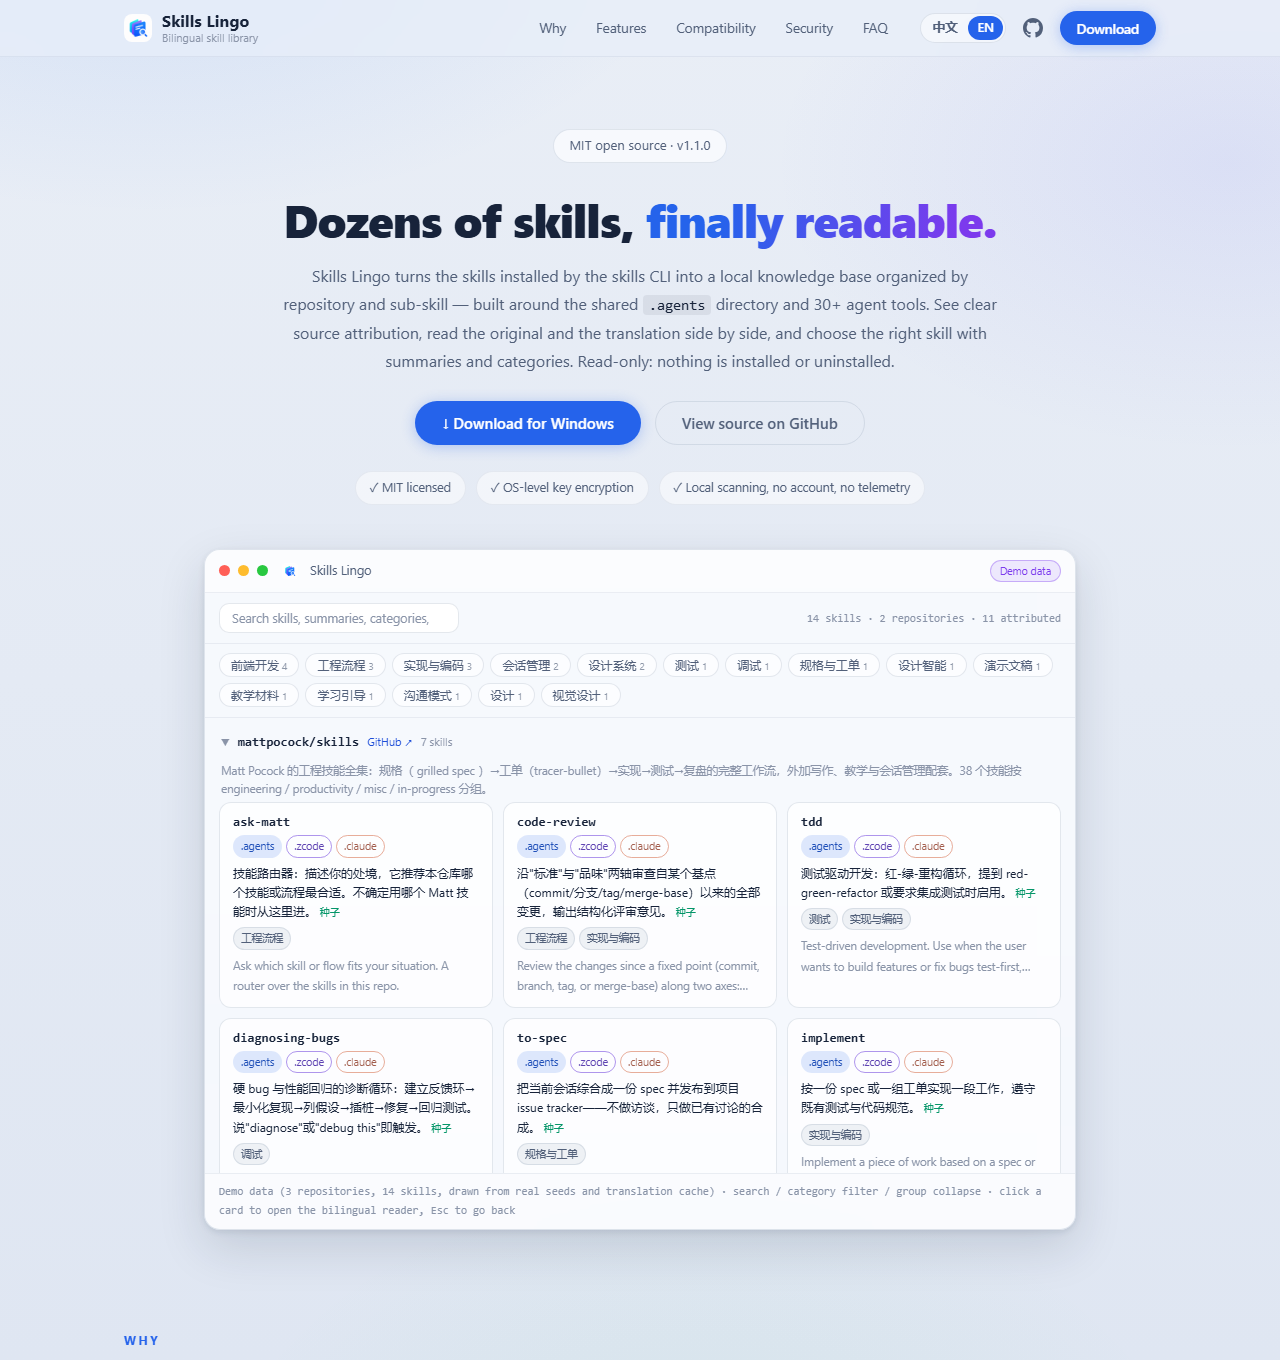
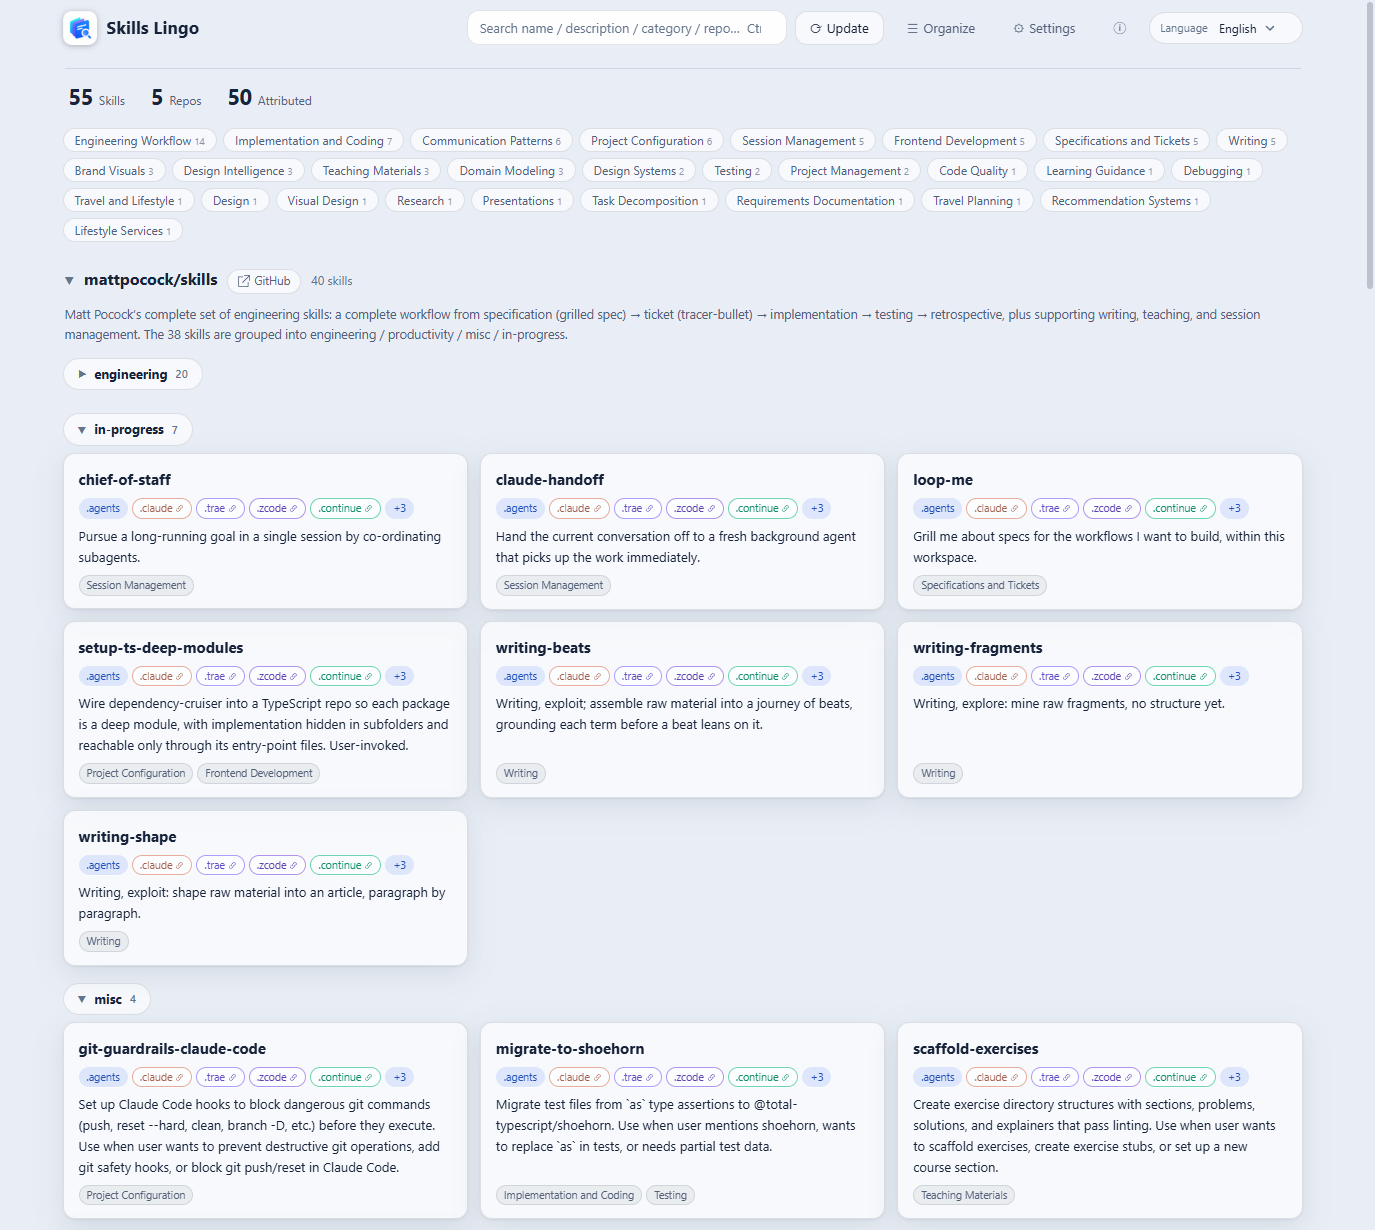
README: 移除 CI 徽章、统一英文品牌名,中文页换用中文截图

diff --git a/README.md b/README.md
@@ -2,12 +2,11 @@
 
 **English** | [中文](README.zh-CN.md)
 
-[![CI](https://github.com/TurkeyPro1025/skills-lingo/actions/workflows/ci.yml/badge.svg)](https://github.com/TurkeyPro1025/skills-lingo/actions/workflows/ci.yml)
 [![Release](https://img.shields.io/github/v/release/TurkeyPro1025/skills-lingo)](https://github.com/TurkeyPro1025/skills-lingo/releases/latest)
 [![License: MIT](https://img.shields.io/badge/License-MIT-blue.svg)](LICENSE)
 [![Platform](https://img.shields.io/badge/platform-Windows%20%7C%20Web-lightgrey)](#install)
 
-> Skills Lingo (Skills 译站) turns the dozens of skills installed by the skills CLI into a local knowledge base organized by **repository → sub-skill** — built around the shared `.agents` directory and 30+ agent tools — with bilingual (English ↔ Chinese) reading section by section. When you don't know which skill to call, summaries and category filters help you choose. It only reads skill directories — it never installs or uninstalls anything.
+> Skills Lingo turns the dozens of skills installed by the skills CLI into a local knowledge base organized by **repository → sub-skill** — built around the shared `.agents` directory and 30+ agent tools — with bilingual (English ↔ Chinese) reading section by section. When you don't know which skill to call, summaries and category filters help you choose. It only reads skill directories — it never installs or uninstalls anything.
 
 ![Skills Lingo interface (demo data)](docs/screenshot.png)
 

diff --git a/README.zh-CN.md b/README.zh-CN.md
@@ -2,14 +2,13 @@
 
 [English](README.md) | **中文**
 
-[![CI](https://github.com/TurkeyPro1025/skills-lingo/actions/workflows/ci.yml/badge.svg)](https://github.com/TurkeyPro1025/skills-lingo/actions/workflows/ci.yml)
 [![Release](https://img.shields.io/github/v/release/TurkeyPro1025/skills-lingo)](https://github.com/TurkeyPro1025/skills-lingo/releases/latest)
 [![License: MIT](https://img.shields.io/badge/License-MIT-blue.svg)](LICENSE)
 [![Platform](https://img.shields.io/badge/platform-Windows%20%7C%20Web-lightgrey)](#安装与使用)
 
 > 把 skills CLI 装进 `.agents` 等技能目录的几十个技能整理成“**仓库 → 子技能**”的本地知识库，以共享的 `.agents` 目录为主、支持 30+ Agent 工具，并把英文文档译成中文逐段对照——边读边学；不知道该调用哪个时，中文概述与分类筛选帮你快速选对。只读技能目录，不安装、不卸载。
 
-![Skills 译站界面（演示数据）](docs/screenshot.png)
+![Skills 译站界面（演示数据）](docs/screenshot-zh.png)
 
 ## 它解决什么问题
 
